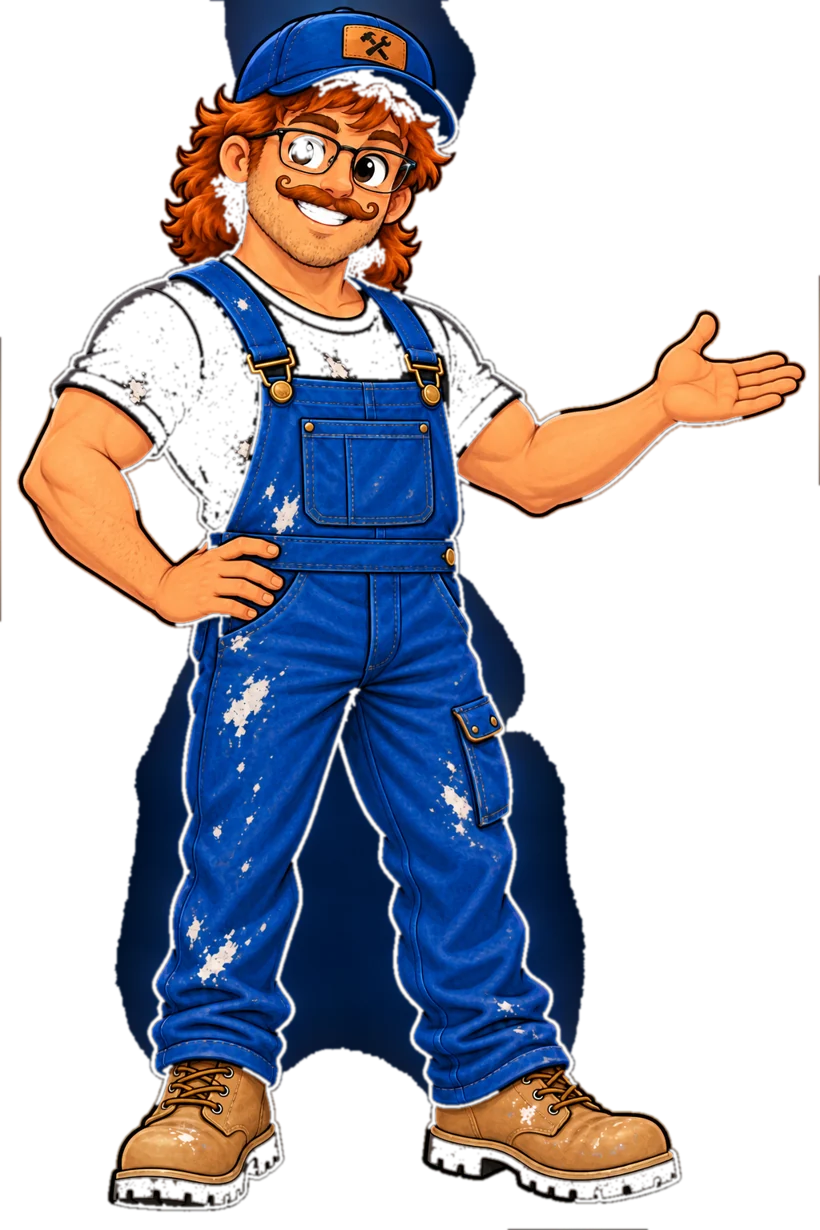
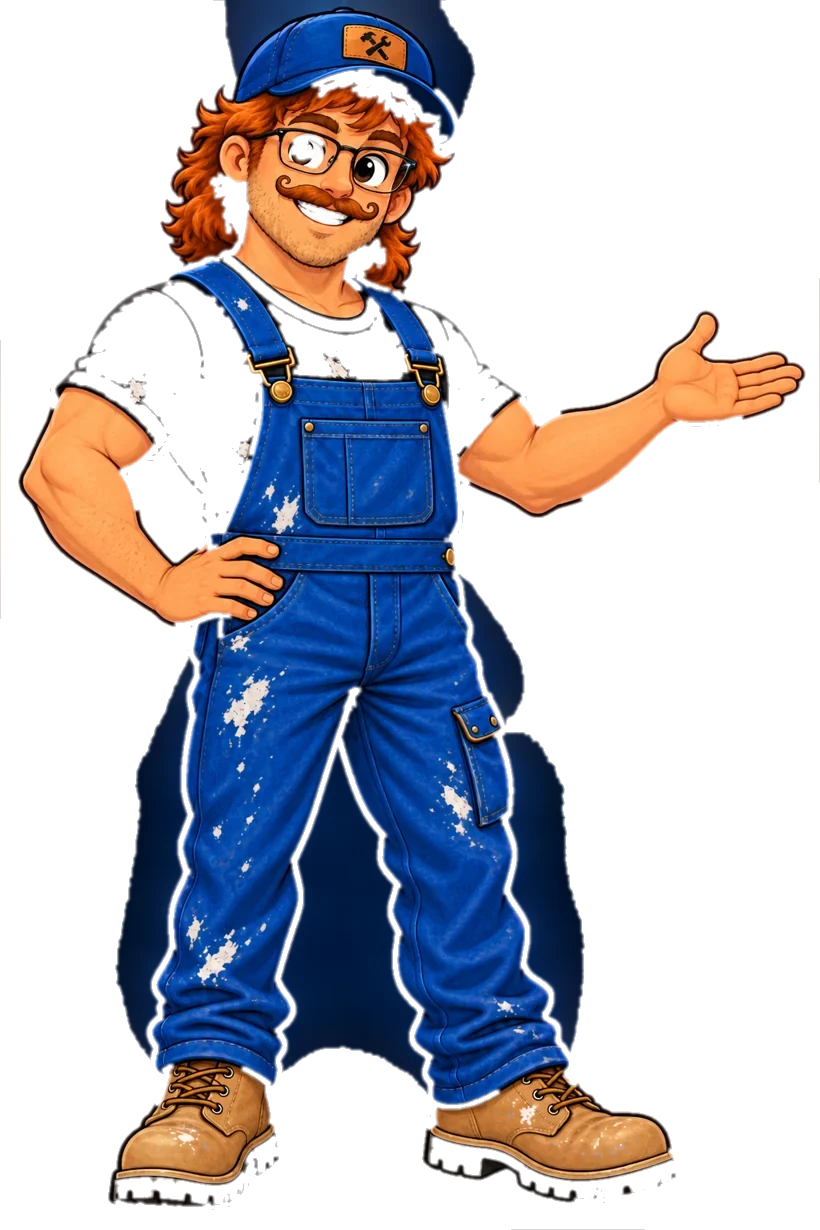
Drop the panel behind the hero figure
He was standing on a card with its own navy, which read as a hard-edged box
around him. No card now: he stands on the hero itself, in a soft glow, with
the corner brackets still framing the space. Cut edges tightened too.

diff --git a/assets/css/site.css b/assets/css/site.css
@@ -1392,17 +1392,21 @@ body.header-hidden .dst-panel { top: 20px; }
 /* --------------------------------------------------------------------------
    Bryan, drawn: the cut-out figure in the hero and the closing band
    -------------------------------------------------------------------------- */
+/* With the drawn figure there is no photo to frame, so the card itself goes:
+   no panel, no border, no shadow — just a soft glow he stands in. */
 .hero-card:has(.hero-figure) {
-  background: radial-gradient(74% 62% at 50% 44%, var(--pine-700), var(--pine-950) 76%);
+  background: radial-gradient(52% 44% at 50% 62%, rgba(45,90,147,.55), rgba(12,28,51,0) 72%);
+  box-shadow: none;
+  overflow: visible;
   aspect-ratio: 5 / 6;
 }
 .hero-card .hero-figure {
-  /* A cut-out figure, not a photograph: show all of him, no pale panel behind. */
+  /* A cut-out figure, not a photograph: show all of him, nothing behind. */
   background: none;
   object-fit: contain;
   object-position: bottom center;
-  padding: 26px 18px 10px;
-  filter: drop-shadow(0 26px 30px rgba(4,10,20,.5));
+  padding: 10px 6px 0;
+  filter: drop-shadow(0 22px 26px rgba(4,10,20,.45));
 }
 /* The closing band gets him at the edge, waving the list in. */
 .cta-band { text-align: center; }
